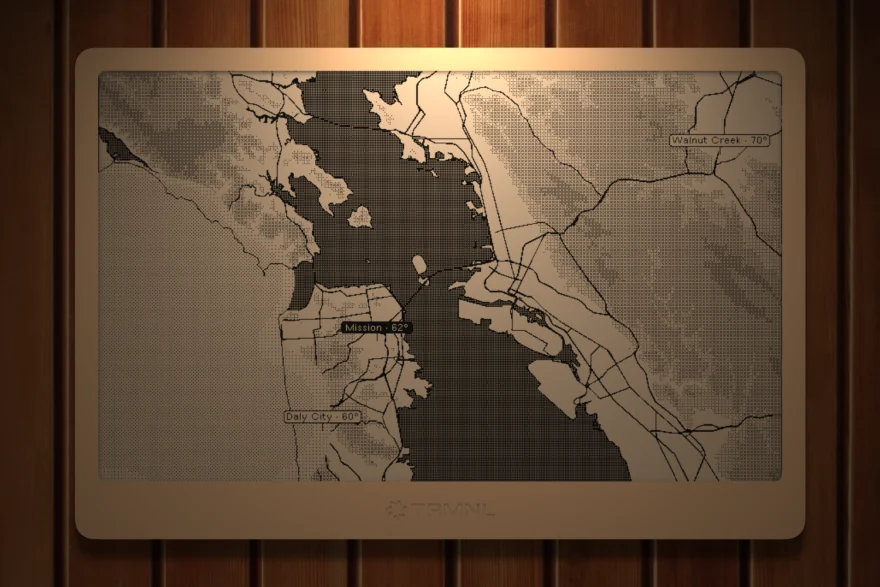
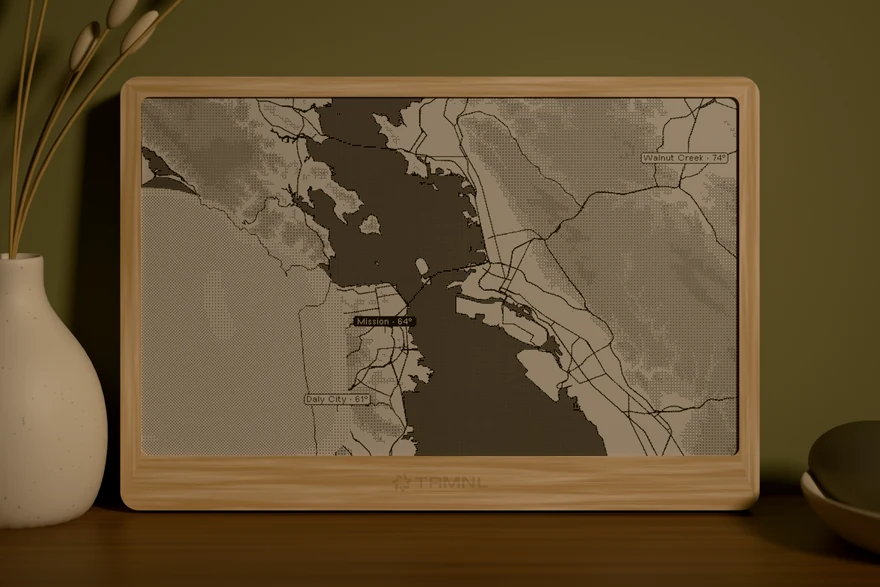
Homepage: TRMNL cards rendered from a 3D model
The San Francisco Bay and Washington State Ferries cards are now
path-traced renders of the device on lived-in shelves, each in its own
scene, with light and dark variants. Alt text describes the new
scenes and drops the fog the San Francisco screen no longer shows.

diff --git a/index.html b/index.html
@@ -128,7 +128,7 @@
   <h2 class="room-title" id="hardware-title">Hardware and e-ink</h2>
   <ul class="shelf-grid">
     <li class="piece">
-      <picture><source media="(prefers-color-scheme: dark)" srcset="/assets/portfolio/cards/TRMNL-San-Francisco-Bay-Dark.webp"><img class="print" src="/assets/portfolio/cards/TRMNL-San-Francisco-Bay.webp" width="880" height="587" alt="San Francisco Bay Ambient Map on TRMNL, with fog shading and temperature labels for the Mission, Daly City, and Walnut Creek." loading="lazy" decoding="async"></picture>
+      <picture><source media="(prefers-color-scheme: dark)" srcset="/assets/portfolio/cards/TRMNL-San-Francisco-Bay-Dark.webp?v=3d"><img class="print" src="/assets/portfolio/cards/TRMNL-San-Francisco-Bay.webp?v=3d" width="880" height="587" alt="San Francisco Bay Ambient Map on a light wood TRMNL leaning on a shelf, with temperature labels for the Mission, Daly City, and Walnut Creek." loading="lazy" decoding="async"></picture>
       <h3 class="piece-title">San Francisco Bay Ambient Map</h3>
       <p class="caption">TRMNL plugin</p>
       <p class="text">Draws the live marine layer over a full-screen map of San Francisco Bay using the HRRR weather model. Optional terrain, neighborhood conditions, and warmest and coolest spots turn changing weather into e-ink cartography.</p>
@@ -142,7 +142,7 @@
       <p class="links"><a href="https://github.com/ztc0611/printing-the-dream">GitHub<span class="sr-only">, Printing the Dream</span></a></p>
     </li>
     <li class="piece">
-      <picture><source media="(prefers-color-scheme: dark)" srcset="/assets/portfolio/cards/TRMNL-Washington-Ferries-Dark.webp"><img class="print" src="/assets/portfolio/cards/TRMNL-Washington-Ferries.webp" width="880" height="587" alt="Washington State Ferries on TRMNL, with a San Juan Islands vessel map beside sailing schedules for Anacortes and Friday Harbor." loading="lazy" decoding="async"></picture>
+      <picture><source media="(prefers-color-scheme: dark)" srcset="/assets/portfolio/cards/TRMNL-Washington-Ferries-Dark.webp?v=3d"><img class="print" src="/assets/portfolio/cards/TRMNL-Washington-Ferries.webp?v=3d" width="880" height="587" alt="Washington State Ferries on a sage TRMNL leaning on a shelf, with a San Juan Islands vessel map beside sailing schedules for Anacortes and Friday Harbor." loading="lazy" decoding="async"></picture>
       <h3 class="piece-title">Washington State Ferries on TRMNL</h3>
       <p class="caption">TRMNL plugin</p>
       <p class="text">Live vessel positions and complete schedules for every Washington State Ferries route, designed for an e-ink display. Each screen is rendered remotely with no client runtime and kept under 100 KiB. The experiment that grew into Aweigh.</p>
